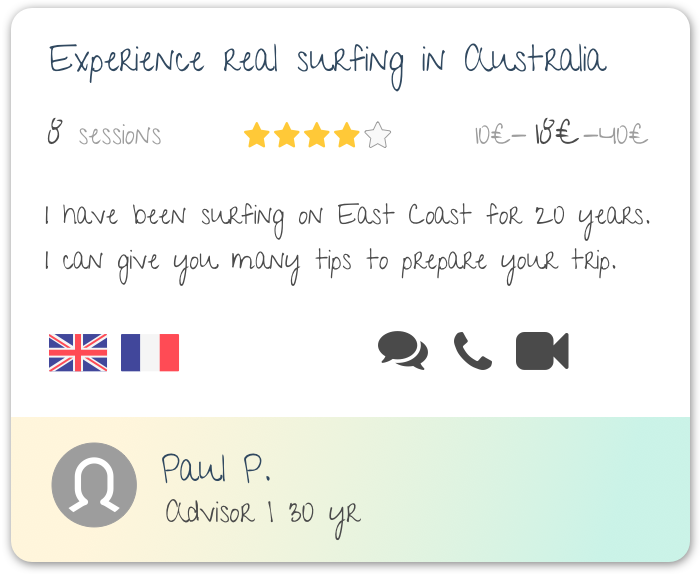
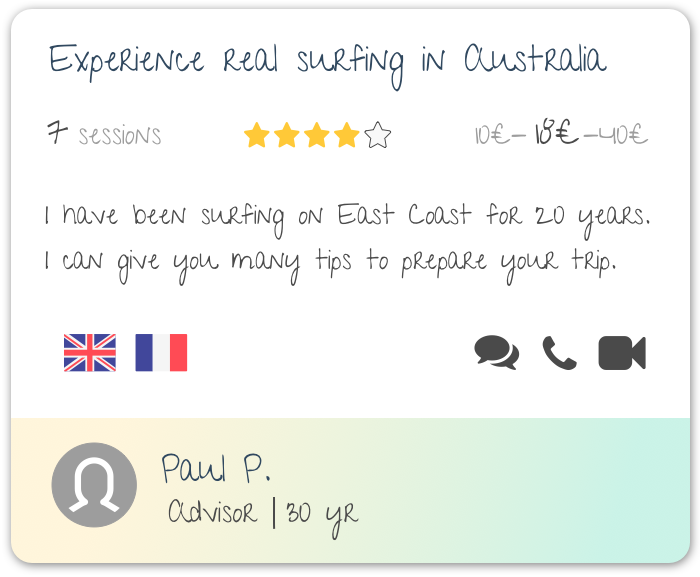
style changes on homepage + first message broadcast disabled

diff --git a/app/models/message.rb b/app/models/message.rb
@@ -48,7 +48,7 @@ class Message < ApplicationRecord
   private
 
   def async_message_broadcast
-    MessageBroadcastJob.perform_later(self)
+    MessageBroadcastJob.perform_later(self) unless self.deal.messages.count <= 1
   end
 
 end
